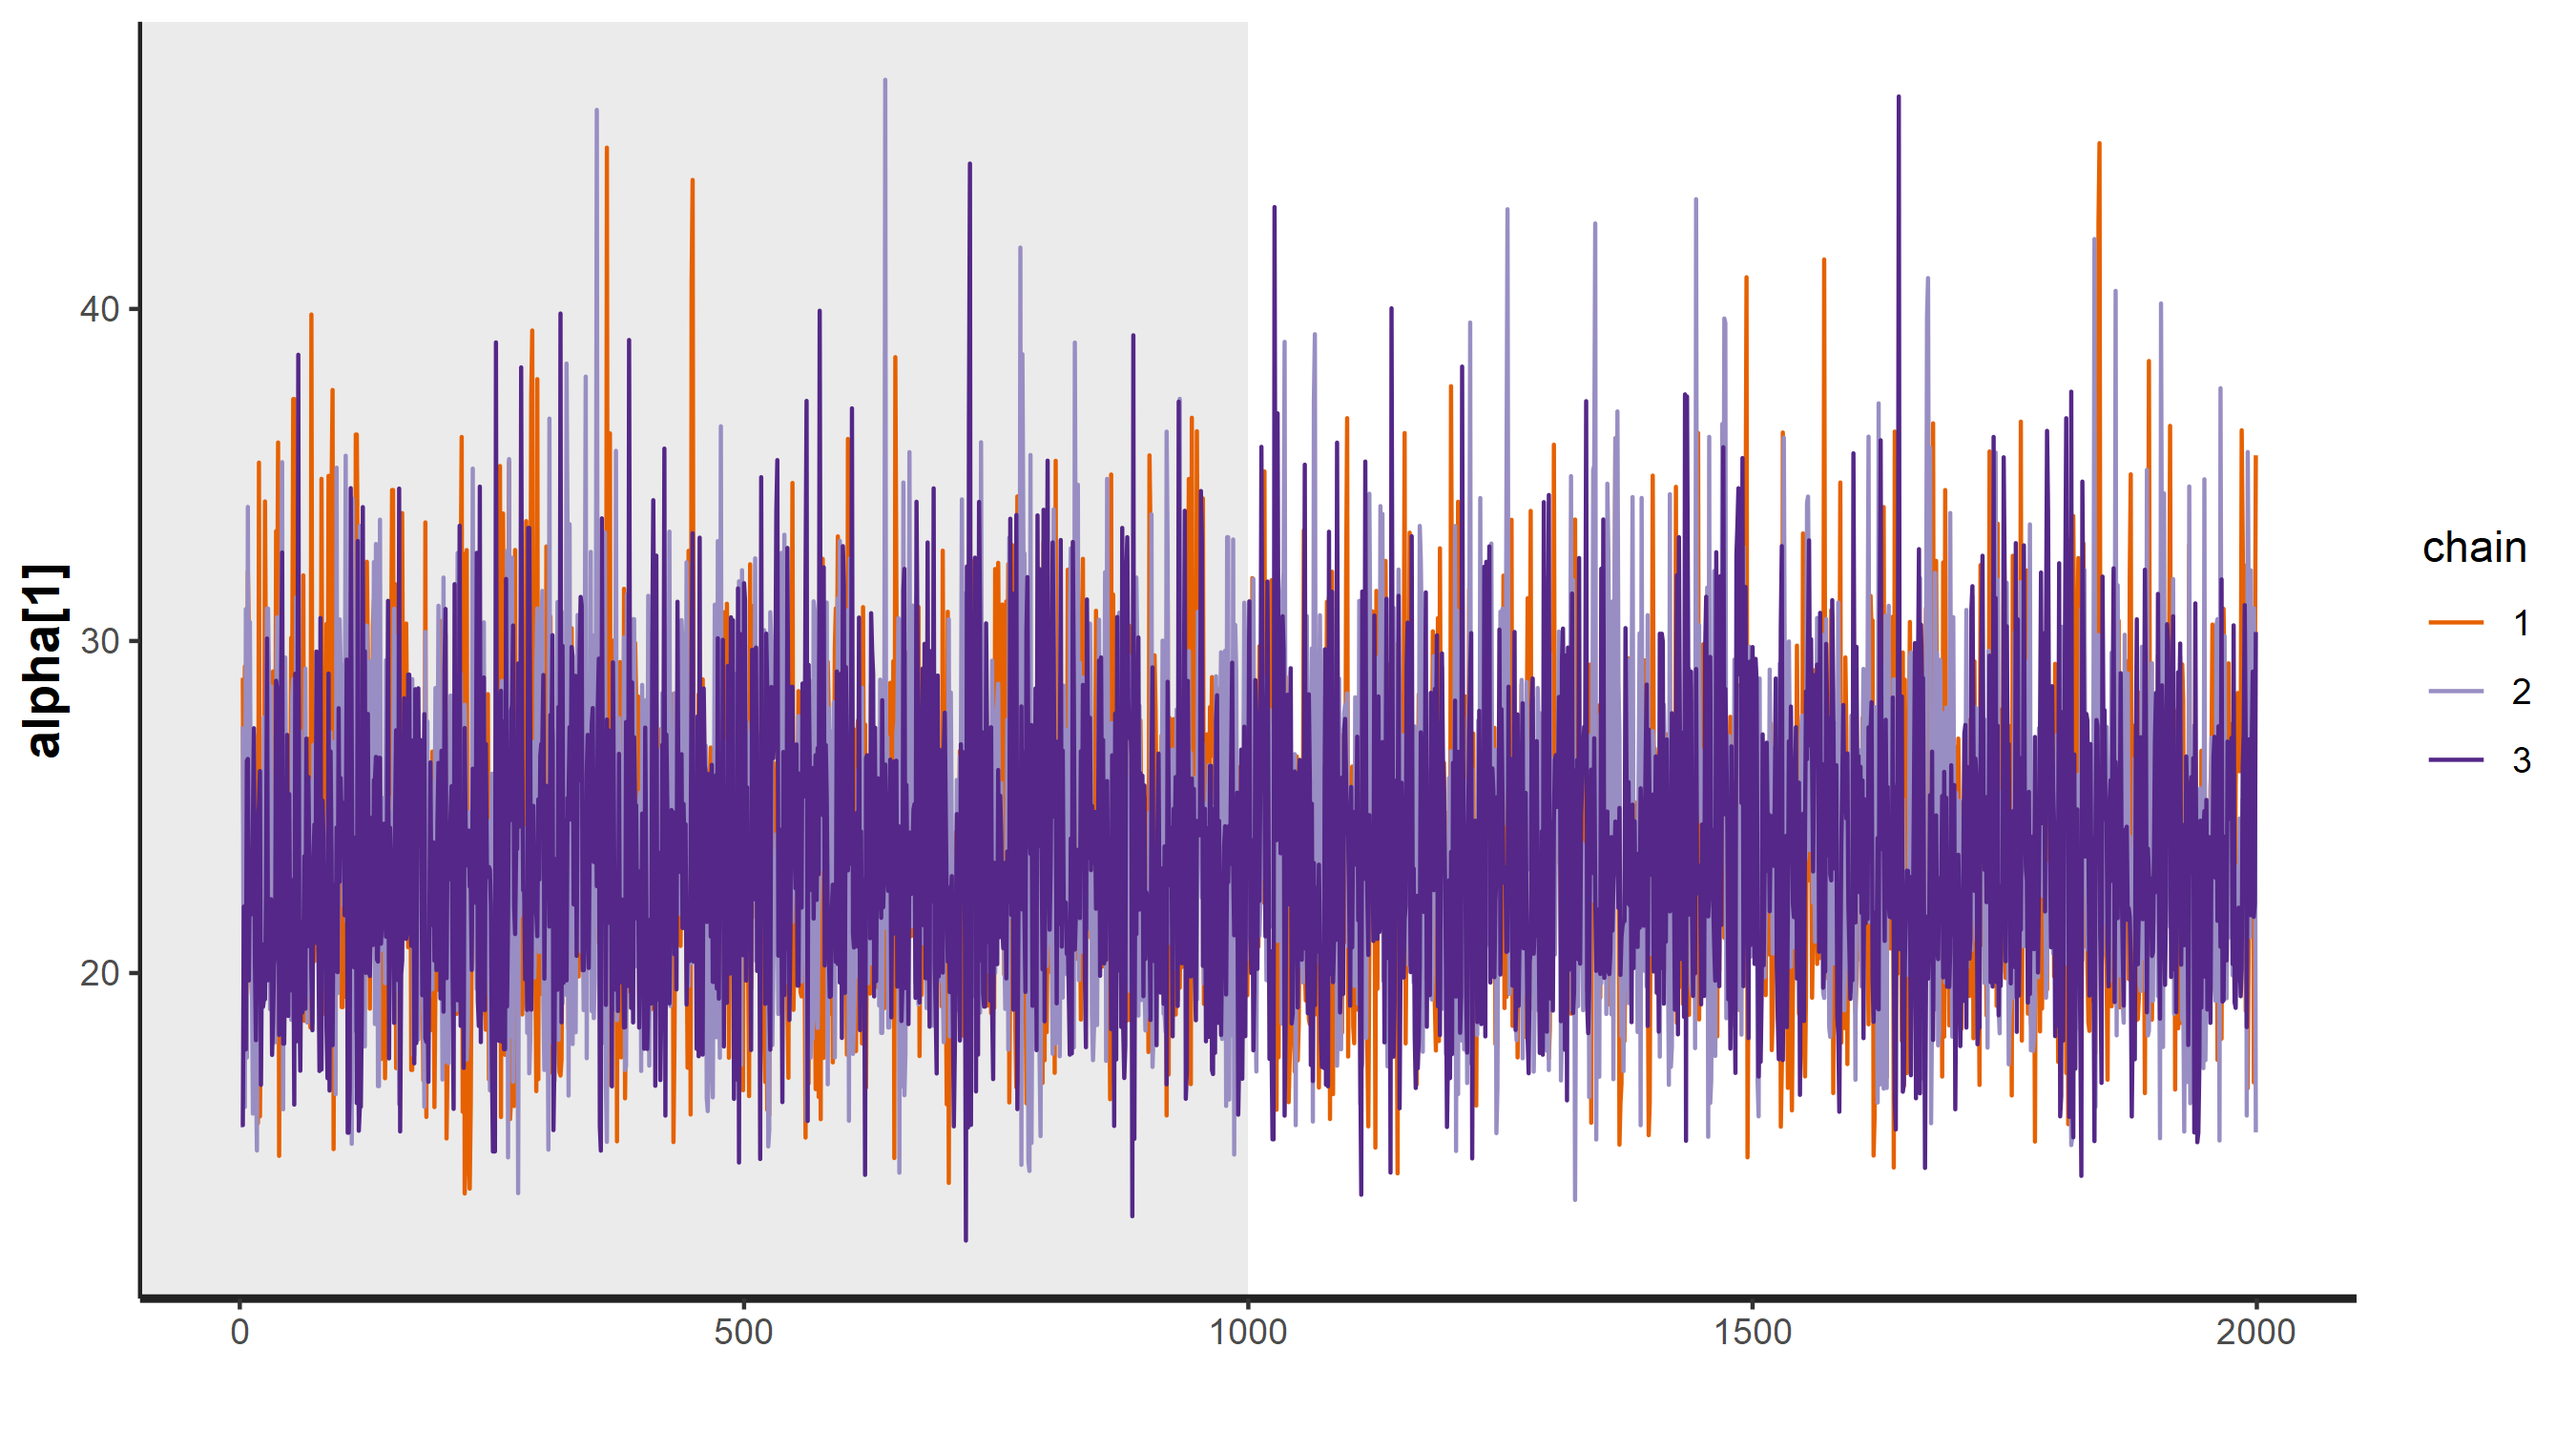
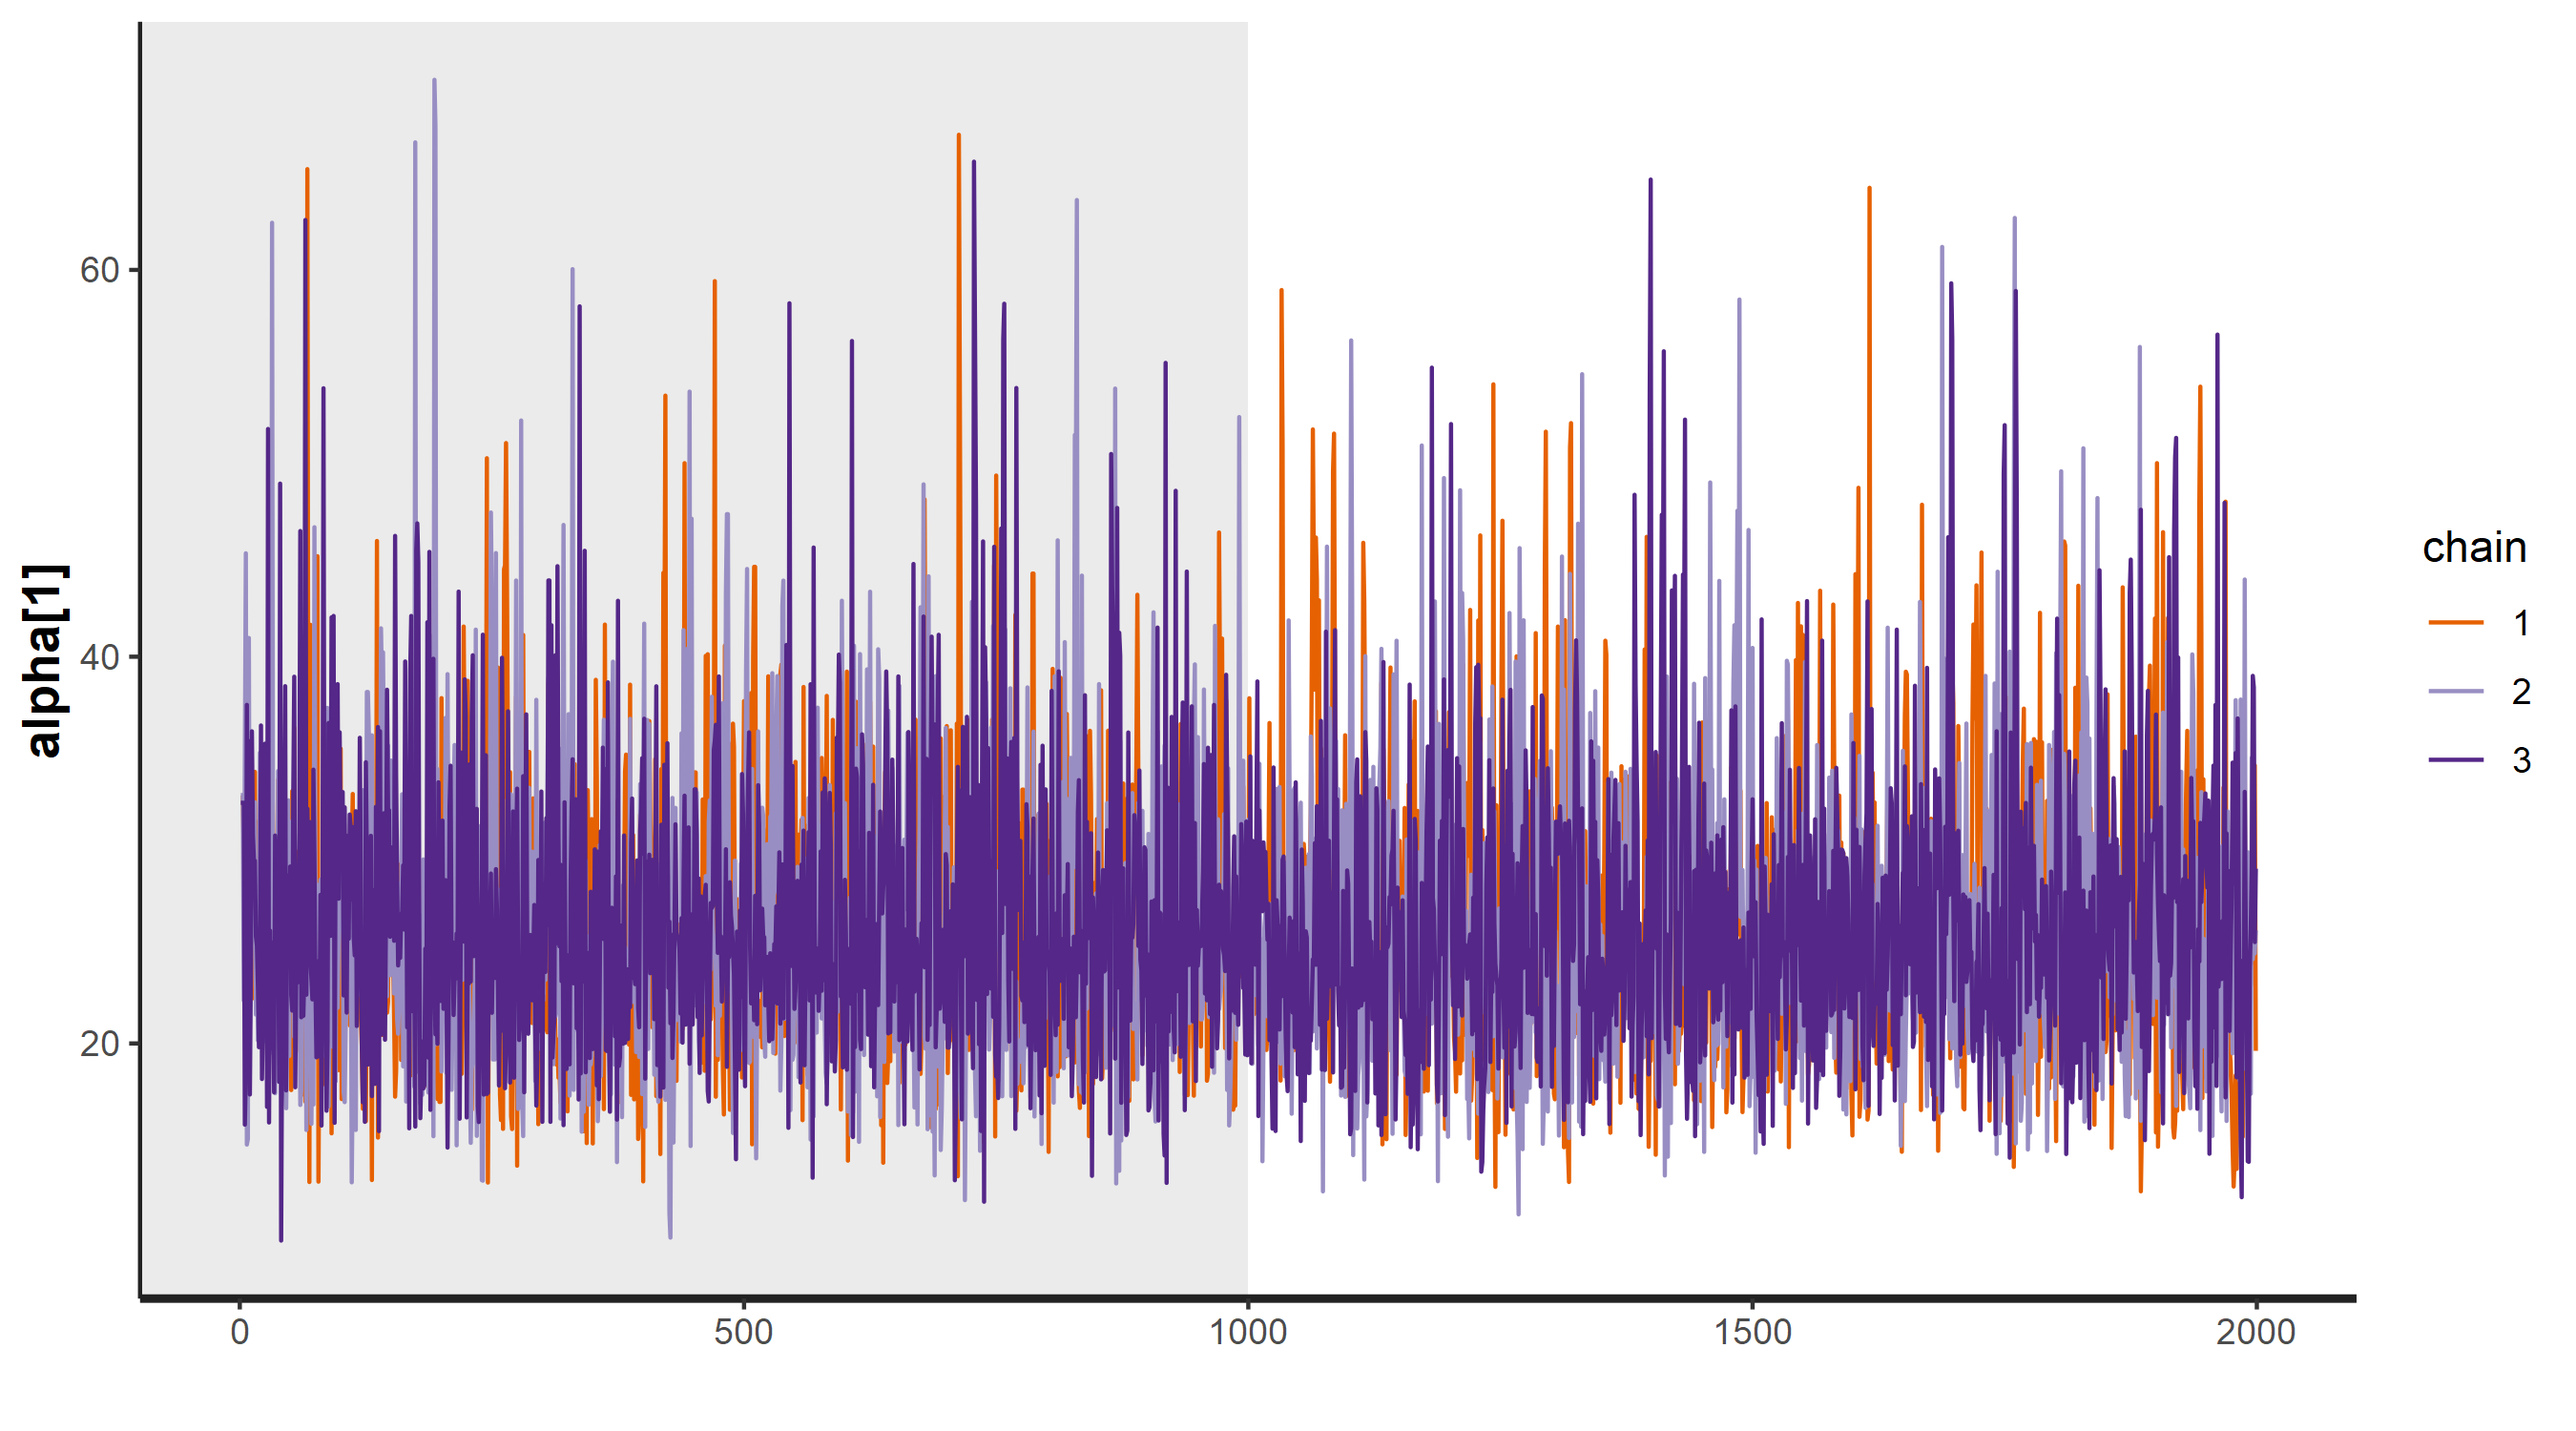
new method for setting default K

diff --git a/README.md b/README.md
@@ -116,6 +116,8 @@ along the top of the age-model plot.
 
 ``` r
 plot(hamstr_fit_1)
+#> Joining, by = "idx"
+#> Joining, by = "alpha_idx"
 ```
 
 ![](readme_files/figure-gfm/unnamed-chunk-8-1.png)<!-- -->
@@ -128,6 +130,7 @@ Additionally, plotting of the diagnostic plots can be switched off.
 
 ``` r
 plot(hamstr_fit_1, summarise = FALSE, plot_diagnostics = FALSE)
+#> Joining, by = "idx"
 ```
 
 ![](readme_files/figure-gfm/unnamed-chunk-9-1.png)<!-- -->
@@ -214,6 +217,8 @@ hamstr_fit_2 <- hamstr(depth = MSB2K_cal$depth,
 
 ``` r
 plot(hamstr_fit_2)
+#> Joining, by = "idx"
+#> Joining, by = "alpha_idx"
 ```
 
 ![](readme_files/figure-gfm/unnamed-chunk-12-1.png)<!-- -->
@@ -226,40 +231,42 @@ age model.
 
 ``` r
 predict(hamstr_fit_1)
-#> # A tibble: 303,000 x 3
+#> Joining, by = "idx"
+#> # A tibble: 120,000 x 3
 #>     iter depth   age
 #>    <int> <dbl> <dbl>
-#>  1     1  1.5  4535.
-#>  2     1  2.48 4545.
-#>  3     1  3.46 4562.
-#>  4     1  4.44 4586.
-#>  5     1  5.42 4607.
-#>  6     1  6.4  4625.
-#>  7     1  7.38 4637.
-#>  8     1  8.36 4648.
-#>  9     1  9.34 4658.
-#> 10     1 10.3  4673.
-#> # ... with 302,990 more rows
+#>  1     1   1.5 4524.
+#>  2     1   4.5 4577.
+#>  3     1   8.5 4610.
+#>  4     1  12.5 4648.
+#>  5     1  14.5 4681.
+#>  6     1  14.5 4681.
+#>  7     1  14.5 4681.
+#>  8     1  17.5 4761.
+#>  9     1  20.5 4862.
+#> 10     1  21.5 4890.
+#> # ... with 119,990 more rows
 ```
 
 `summary` returns the age model summarised over the realisations.
 
 ``` r
 summary(hamstr_fit_1)
-#> # A tibble: 101 x 13
+#> Joining, by = "idx"
+#> # A tibble: 81 x 13
 #>    depth   idx par    mean se_mean    sd `2.5%` `25%` `50%` `75%` `97.5%` n_eff
 #>    <dbl> <dbl> <chr> <dbl>   <dbl> <dbl>  <dbl> <dbl> <dbl> <dbl>   <dbl> <dbl>
-#>  1  1.5      1 c_ag~ 4532.    2.19  63.6  4393. 4494. 4537. 4575.   4643.  844.
-#>  2  2.48     2 c_ag~ 4542.    2.00  59.7  4416. 4506. 4546. 4583.   4649.  892.
-#>  3  3.46     3 c_ag~ 4553.    1.81  56.4  4431. 4519. 4556. 4590.   4657.  966.
-#>  4  4.44     4 c_ag~ 4563.    1.65  53.4  4450. 4530. 4565. 4599.   4663. 1048.
-#>  5  5.42     5 c_ag~ 4574.    1.51  51.0  4466. 4542. 4575. 4608.   4669. 1139.
-#>  6  6.4      6 c_ag~ 4584.    1.39  49.0  4481. 4554. 4585. 4617.   4676. 1242.
-#>  7  7.38     7 c_ag~ 4595.    1.30  47.4  4496. 4565. 4596. 4627.   4685. 1338.
-#>  8  8.36     8 c_ag~ 4605.    1.22  46.2  4511. 4576. 4607. 4636.   4696. 1424.
-#>  9  9.34     9 c_ag~ 4616.    1.19  45.3  4523. 4587. 4617. 4645.   4706. 1450.
-#> 10 10.3     10 c_ag~ 4627.    1.22  45.1  4533. 4597. 4628. 4656.   4715. 1362.
-#> # ... with 91 more rows, and 1 more variable: Rhat <dbl>
+#>  1  1.5      1 c_ag~ 4498.   2.28   67.4  4357. 4455. 4503. 4544.   4617.  875.
+#>  2  2.72     2 c_ag~ 4515.   2.07   62.3  4386. 4477. 4519. 4559.   4627.  908.
+#>  3  3.95     3 c_ag~ 4534.   1.87   58.1  4417. 4498. 4536. 4574.   4639.  965.
+#>  4  5.18     4 c_ag~ 4552.   1.68   54.7  4442. 4517. 4554. 4589.   4653. 1059.
+#>  5  6.4      5 c_ag~ 4570.   1.54   52.3  4461. 4537. 4571. 4605.   4666. 1155.
+#>  6  7.62     6 c_ag~ 4588.   1.45   50.9  4482. 4556. 4590. 4621.   4682. 1233.
+#>  7  8.85     7 c_ag~ 4607.   1.31   48.0  4508. 4576. 4608. 4638.   4696. 1348.
+#>  8 10.1      8 c_ag~ 4626.   1.13   44.7  4535. 4596. 4626. 4656.   4710. 1573.
+#>  9 11.3      9 c_ag~ 4645.   0.931  42.1  4560. 4617. 4645. 4674.   4726. 2051.
+#> 10 12.5     10 c_ag~ 4664.   0.806  40.6  4583. 4637. 4664. 4692.   4743. 2535.
+#> # ... with 71 more rows, and 1 more variable: Rhat <dbl>
 ```
 
 The hierarchical structure of the sections makes it difficult to specify
@@ -270,6 +277,7 @@ depths that are outside the modelled depths.
 
 ``` r
 age.mods.interp <- predict(hamstr_fit_1, depth = seq(0, 100, by = 1))
+#> Joining, by = "idx"
 ```
 
 These interpolated age models can summarised with the same function as
@@ -283,14 +291,14 @@ summary(age.mods.interp)
 #>    <dbl> <dbl> <dbl>  <dbl> <dbl> <dbl> <dbl>   <dbl>
 #>  1     0   NA   NA      NA    NA    NA    NA      NA 
 #>  2     1   NA   NA      NA    NA    NA    NA      NA 
-#>  3     2 4537.  61.5  4404. 4500. 4541. 4579.   4646.
-#>  4     3 4548.  57.9  4423. 4513. 4551. 4586.   4653.
-#>  5     4 4558.  54.7  4443. 4526. 4561. 4594.   4660.
-#>  6     5 4569.  51.9  4459. 4537. 4571. 4604.   4666.
-#>  7     6 4580.  49.7  4475. 4549. 4581. 4613.   4673.
-#>  8     7 4591.  47.9  4491. 4561. 4592. 4623.   4680.
-#>  9     8 4601.  46.5  4506. 4572. 4603. 4632.   4692.
-#> 10     9 4612.  45.5  4519. 4583. 4613. 4642.   4702.
+#>  3     2 4505.  65.1  4372. 4465. 4509. 4550.   4621.
+#>  4     3 4520.  61.2  4394. 4482. 4522. 4563.   4630.
+#>  5     4 4534.  57.9  4418. 4499. 4537. 4575.   4640.
+#>  6     5 4549.  55.1  4439. 4515. 4552. 4587.   4651.
+#>  7     6 4564.  52.9  4454. 4531. 4566. 4599.   4661.
+#>  8     7 4579.  51.4  4470. 4546. 4581. 4613.   4673.
+#>  9     8 4594.  49.9  4490. 4562. 4596. 4627.   4686.
+#> 10     9 4609.  47.5  4511. 4578. 4611. 4641.   4698.
 #> # ... with 91 more rows
 ```
 
@@ -303,6 +311,7 @@ options.
 
 ``` r
 plot(hamstr_fit_1, type = "hier_acc")
+#> Joining, by = "alpha_idx"
 ```
 
 ![](readme_files/figure-gfm/unnamed-chunk-17-1.png)<!-- -->
@@ -350,6 +359,7 @@ coarsest hierarchical level.
 
 ``` r
 plot(hamstr_fit_1, type = "hier")
+#> Joining, by = "alpha_idx"
 ```
 
 ![](readme_files/figure-gfm/unnamed-chunk-21-1.png)<!-- -->

diff --git a/NEWS.md b/NEWS.md
@@ -1,3 +1,8 @@
+# hamstr 0.5.1
+
+New default hierarchical structure K based on default resolution of 1 cm (up to 1000 cm)
+and number of levels approximately equal to number of new child sections per parent per level.
+
 
 # hamstr 0.5.0
 
